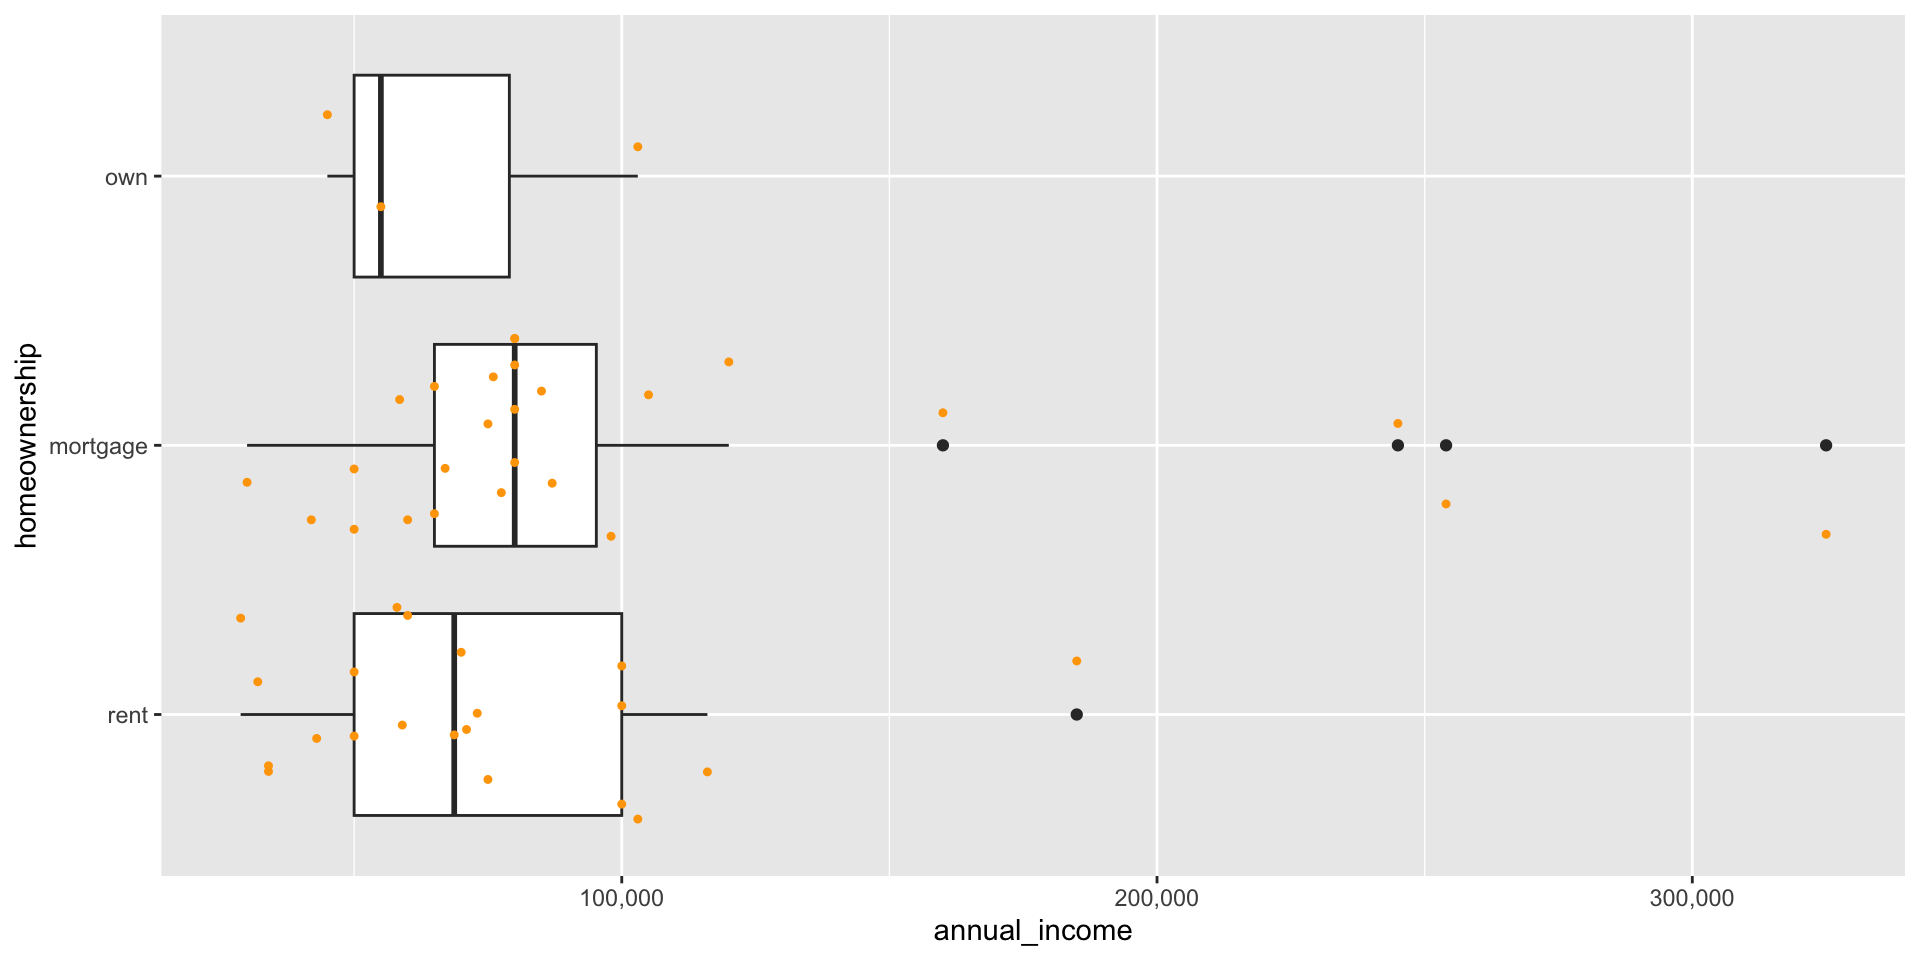
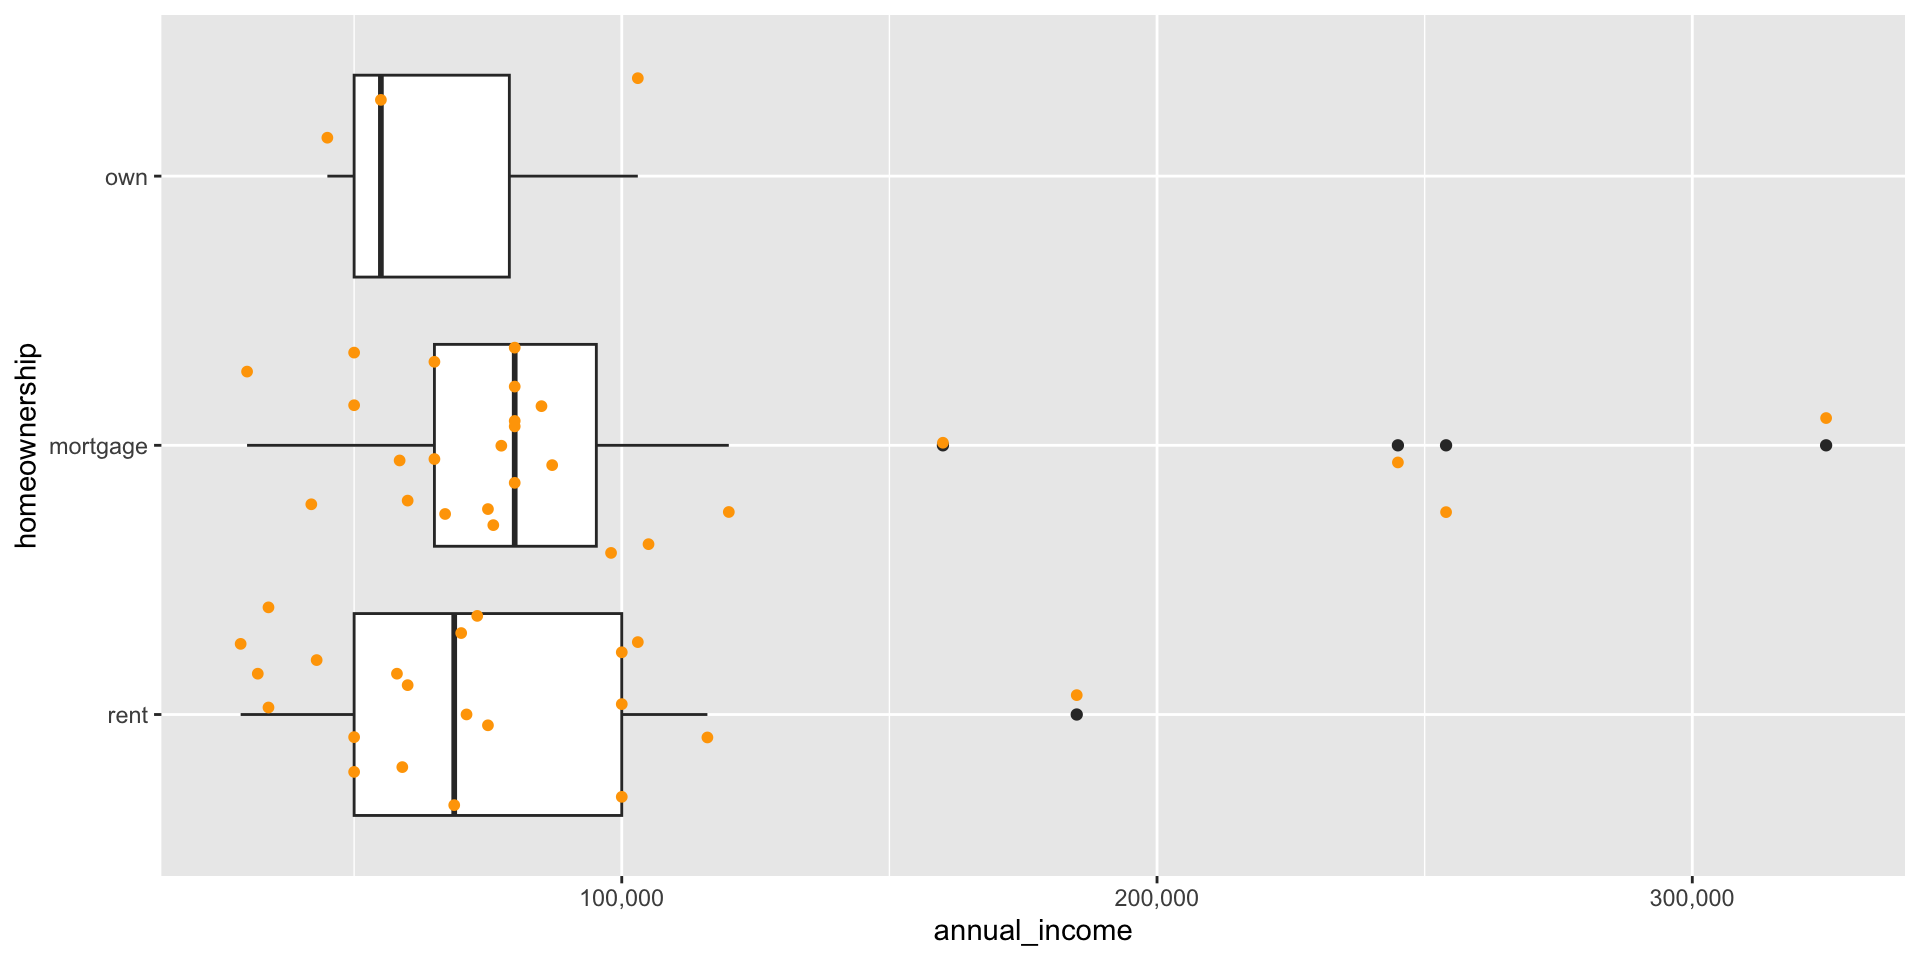
more tiny fixes to 02dataSummaries

diff --git a/stats/02dataSummaries/index.html b/stats/02dataSummaries/index.html
@@ -427,10 +427,31 @@ Mick McQuaid
 <li class="fragment">can be dragged away from the center by outliers</li>
 <li class="fragment">can be found by <code>mean(vectorname)</code> in R if vector is numeric</li>
 <li class="fragment">can find all means in dataframe with <code>colMeans(df)</code> or <code>sapply(df,mean)</code></li>
-<li class="fragment">subsetting just the first, second, and fourth column <code>colMeans(mtcars[,c(1,2:4)])</code></li>
-<li class="fragment">subsetting numeric columns <code>colMeans(df[,which(sapply(df,is.numeric))])</code></li>
 </ul>
 </div>
+</section>
+<section id="means-of-some-but-not-all-columns" class="slide level2 center">
+<h2>Means of some, but not all, columns</h2>
+<div>
+<ul>
+<li class="fragment">subsetting just the first, second, and fourth column <code>colMeans(mtcars[,c(1,2:4)])</code></li>
+<li class="fragment">subsetting numeric columns <code>colMeans(df[,which(sapply(df,is.numeric))])</code></li>
+<li class="fragment">subsetting numeric columns &amp; rows where hp &gt; 100: <small> <code>df&lt;-mtcars     colMeans(df[which(df$hp&gt;100),which(sapply(df,is.numeric))])</code> </small></li>
+</ul>
+</div>
+<aside class="notes">
+<p>The <code>which()</code> function returns elements of a vector or dataframe, in this case columns of a dataframe and rows of a dataframe. The rows are all those of cars with horsepower more than a hundred. The columns are those defined as numeric, which is a subset if some columns have been defined as factors as we did last week. The function <code>sapply(object,function)</code> applies a function to an object, in this case the columns of a dataframe.</p>
+<style type="text/css">
+        span.MJX_Assistive_MathML {
+          position:absolute!important;
+          clip: rect(1px, 1px, 1px, 1px);
+          padding: 1px 0 0 0!important;
+          border: 0!important;
+          height: 1px!important;
+          width: 1px!important;
+          overflow: hidden!important;
+          display:block!important;
+      }</style></aside>
 </section>
 <section id="median" class="slide level2 center">
 <h2>Median</h2>
@@ -730,7 +751,7 @@ loan_purpose             A  B  C  D  E  F  G Sum
 <div class="sourceCode cell-code" id="cb13"><pre class="sourceCode numberSource r number-lines code-with-copy"><code class="sourceCode r"><span id="cb13-1"><a href="#cb13-1"></a>loan50 <span class="sc">|&gt;</span></span>
 <span id="cb13-2"><a href="#cb13-2"></a>  <span class="fu">ggplot</span>(<span class="fu">aes</span>(annual_income,homeownership)) <span class="sc">+</span></span>
 <span id="cb13-3"><a href="#cb13-3"></a>  <span class="fu">geom_boxplot</span>() <span class="sc">+</span></span>
-<span id="cb13-4"><a href="#cb13-4"></a>  <span class="fu">geom_jitter</span>( <span class="at">size=</span><span class="fl">0.9</span>, <span class="at">color=</span><span class="st">"orange"</span>, <span class="at">width=</span><span class="fl">0.1</span>) <span class="sc">+</span></span>
+<span id="cb13-4"><a href="#cb13-4"></a>  <span class="fu">geom_jitter</span>( <span class="at">size=</span><span class="fl">1.4</span>, <span class="at">color=</span><span class="st">"orange"</span>, <span class="at">width=</span><span class="fl">0.1</span>) <span class="sc">+</span></span>
 <span id="cb13-5"><a href="#cb13-5"></a>  <span class="fu">scale_x_continuous</span>(<span class="at">labels =</span> <span class="fu">comma_format</span>())</span></code><button title="Copy to Clipboard" class="code-copy-button"><i class="bi"></i></button></pre></div>
 
 </div>
